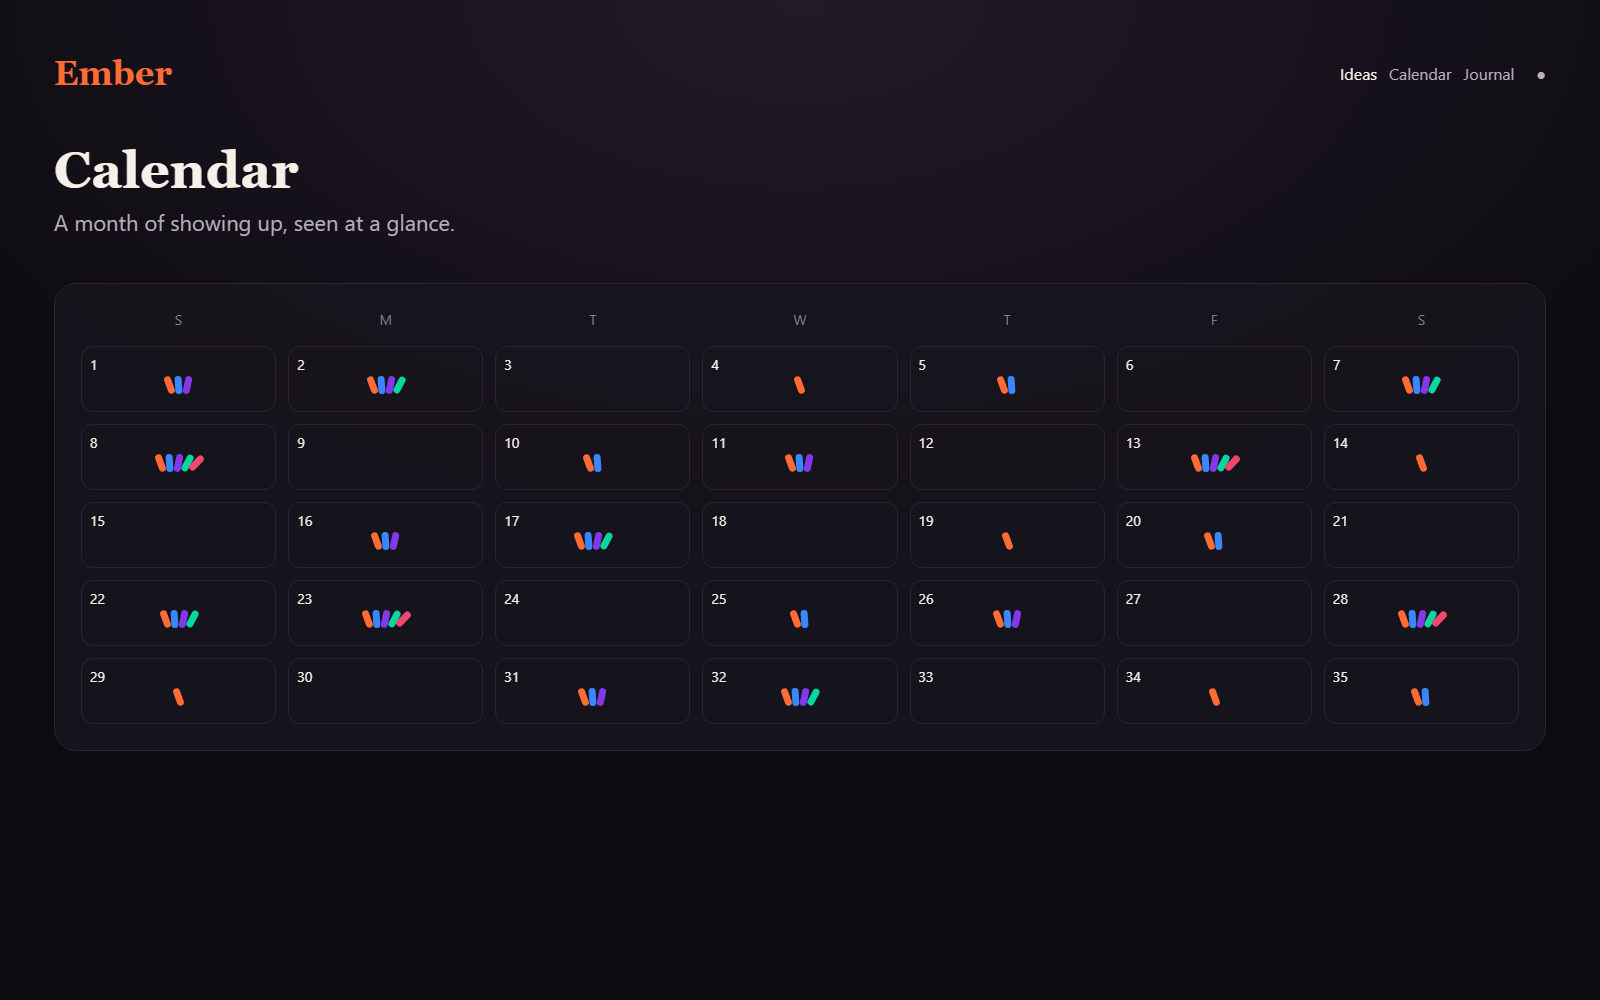
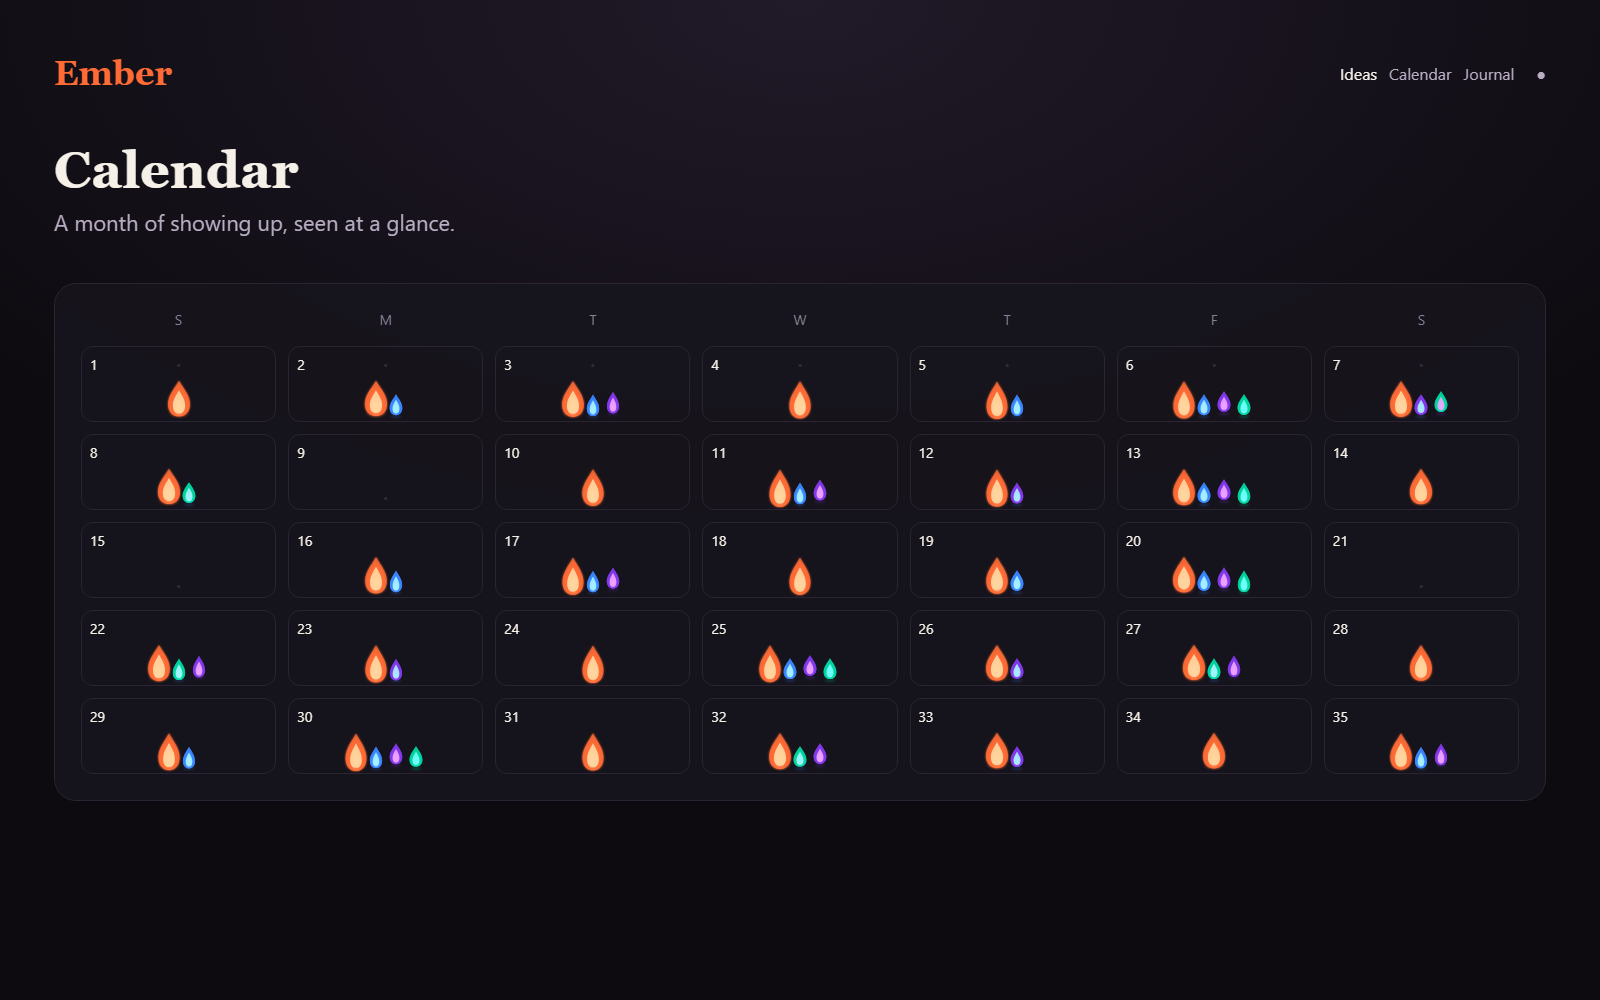
fix: fix images

diff --git a/remotion-demo/src/DevtoShowcase.tsx b/remotion-demo/src/DevtoShowcase.tsx
@@ -64,14 +64,35 @@ export const DevtoDashboard: React.FC = () => (
 
 export const DevtoCalendar: React.FC = () => {
   const colors = [COLORS.ember, COLORS.sapphire, COLORS.violet, COLORS.emerald, COLORS.crimson];
+  const marks = [1, 2, 3, 1, 2, 4, 3, 2, 0, 1, 3, 2, 4, 1, 0, 2, 3, 1, 2, 4, 0, 3, 2, 1, 4, 2, 3, 1, 2, 4, 1, 3, 2, 1, 3];
   return <Shell title="Calendar" subtitle="A month of showing up, seen at a glance.">
     <div style={{ marginTop: 24, padding: 26, borderRadius: 22, border: "1px solid #2a2433", background: "rgba(23,20,28,.88)" }}>
       <div style={{ display: "grid", gridTemplateColumns: "repeat(7, 1fr)", gap: 12 }}>
-        {["S", "M", "T", "W", "T", "F", "S", ...Array.from({ length: 35 }, (_, i) => i + 1)].map((value, i) => <div key={i} style={{ height: i < 7 ? 24 : 66, borderRadius: 12, border: i < 7 ? "none" : "1px solid #2a2433", color: i < 7 ? FAINT : TEXT, padding: i < 7 ? 0 : 8, fontSize: 14, textAlign: i < 7 ? "center" : "left" }}>{value}{i >= 7 && i % 3 !== 0 ? <div style={{ display: "flex", justifyContent: "center", marginTop: 2 }}><div style={{ display: "flex", gap: 2 }}>{colors.slice(0, (i % 5) + 1).map((c, j) => <span key={j} style={{ width: 7, height: 18, borderRadius: 8, background: c, transform: `rotate(${j * 16 - 20}deg)` }} />)}</div></div> : null}</div>)}
+        {["S", "M", "T", "W", "T", "F", "S", ...Array.from({ length: 35 }, (_, i) => i + 1)].map((value, i) => <div key={i} style={{ height: i < 7 ? 24 : 76, borderRadius: 12, border: i < 7 ? "none" : "1px solid #2a2433", color: i < 7 ? FAINT : TEXT, padding: i < 7 ? 0 : 8, fontSize: 14, textAlign: i < 7 ? "center" : "left" }}>{value}{i >= 7 && marks[i - 7] > 0 ? <div style={{ display: "flex", justifyContent: "center", alignItems: "end", height: 48, marginTop: -2 }}>{colors.slice(0, marks[i - 7]).map((c, j) => <div key={j} style={{ marginLeft: j === 0 ? 0 : -10, zIndex: j, transform: `translateY(${j % 2 ? 3 : 0}px)` }}><Flame stage={j === 0 ? "Flame" : "Spark"} baseColor={c} size={30} seed={i + j} /></div>)}</div> : <div style={{ display: "flex", justifyContent: "center", marginTop: 26, color: "#30293a" }}>•</div>}</div>)}
       </div>
     </div>
   </Shell>;
 };
+
+export const DevtoAiJournal: React.FC = () => (
+  <AbsoluteFill style={{ background: `radial-gradient(100% 90% at 50% 20%, #251a2b 0%, ${CANVAS} 70%)`, alignItems: "center", justifyContent: "center", color: TEXT, fontFamily: SANS }}>
+    <div style={{ width: 650, border: "1px solid #2a2433", background: "rgba(23,20,28,.96)", borderRadius: 24, padding: 30, boxShadow: "0 28px 80px rgba(0,0,0,.5)" }}>
+      <div style={{ fontFamily: SERIF, fontSize: 30, fontWeight: 700 }}>How was Running today?</div>
+      <div style={{ color: MUTED, fontSize: 17, marginTop: 6 }}>A tap is enough. Say more only if you feel like it.</div>
+      <div style={{ display: "flex", gap: 12, marginTop: 24 }}>
+        {[{ glyph: "🔥", label: "Energized" }, { glyph: "🙂", label: "Okay" }, { glyph: "🌧️", label: "Rough" }].map((m, i) => <div key={m.label} style={{ flex: 1, border: `1px solid ${i === 0 ? COLORS.ember : "#2a2433"}`, background: i === 0 ? "rgba(255,107,53,.08)" : "transparent", borderRadius: 14, textAlign: "center", padding: "14px 6px" }}><div style={{ fontSize: 30 }}>{m.glyph}</div><div style={{ color: MUTED, fontSize: 14, marginTop: 4 }}>{m.label}</div></div>)}
+      </div>
+      <div style={{ marginTop: 20, border: "1px solid rgba(255,107,53,.5)", background: "rgba(255,107,53,.07)", borderRadius: 15, padding: 18 }}>
+        <div style={{ color: COLORS.ember, fontSize: 14, fontWeight: 700, letterSpacing: 1 }}>✦ EMBER AI</div>
+        <div style={{ fontFamily: SERIF, fontSize: 25, marginTop: 12 }}>What pulled you to the run today?</div>
+        <div style={{ color: FAINT, fontSize: 15, marginTop: 8 }}>Optional — answer only if you feel like it.</div>
+        <div style={{ marginTop: 14, border: "1px solid #2a2433", borderRadius: 10, padding: 13, color: FAINT }}>I wanted to clear my head before the day started…</div>
+      </div>
+      <div style={{ marginTop: 18, border: "1px solid #2a2433", borderRadius: 12, padding: 15, color: FAINT }}>Anything you want to remember about today…</div>
+      <div style={{ textAlign: "right", marginTop: 18, color: COLORS.ember, fontWeight: 600 }}>Log it →</div>
+    </div>
+  </AbsoluteFill>
+);
 
 export const DevtoJournal: React.FC = () => (
   <Shell title="Journal" subtitle="Everything you&apos;ve tended, looking back.">
@@ -87,4 +108,5 @@ export const DevtoShowcaseCompositions: React.FC = () => <>
   <Composition id="DevtoDashboard" component={DevtoDashboard} durationInFrames={1} fps={30} width={1600} height={1000} />
   <Composition id="DevtoCalendar" component={DevtoCalendar} durationInFrames={1} fps={30} width={1600} height={1000} />
   <Composition id="DevtoJournal" component={DevtoJournal} durationInFrames={1} fps={30} width={1600} height={1000} />
+  <Composition id="DevtoAiJournal" component={DevtoAiJournal} durationInFrames={1} fps={30} width={1600} height={1000} />
 </>;

diff --git a/components/flame/Flame.tsx b/components/flame/Flame.tsx
@@ -68,8 +68,8 @@ export function Flame({
     if (isPhoenix(stage)) return [{ dx: 0, s: 1, phase: 0 }];
     if (v.tongues === 3)
       return [
-        { dx: -27, s: 0.52, phase: 0.25 },
-        { dx: 27, s: 0.52, phase: 0.5 },
+        { dx: -22, s: 0.40, phase: 0.25 },
+        { dx: 22, s: 0.40, phase: 0.5 },
         { dx: 0, s: 1, phase: 0 },
       ];
     return [{ dx: 0, s: 1, phase: 0 }];

diff --git a/remotion-demo/src/Flame.tsx b/remotion-demo/src/Flame.tsx
@@ -56,8 +56,8 @@ export const Flame: React.FC<FlameProps> = ({
   const tongues =
     stage === "Beacon"
       ? [
-          { dx: -27, s: 0.52 },
-          { dx: 27, s: 0.52 },
+          { dx: -22, s: 0.40 },
+          { dx: 22, s: 0.40 },
           { dx: 0, s: 1 },
         ]
       : [{ dx: 0, s: 1 }];

diff --git a/dev.to/blog.md b/dev.to/blog.md
@@ -1,20 +1,89 @@
 *This is a submission for the [Weekend Challenge: Passion Edition](https://dev.to/challenges/weekend-2026-07-09)*
 
-# Ember — tend the things you&apos;re building, and watch them burn 🔥
+# Ember: tend the things you're building, and watch them burn
 
-![Ember cover — a phoenix flame on a dark canvas](https://raw.githubusercontent.com/bv-saketha-rama/ember/main/dev.to/assets/cover.png)
+![Ember cover - a phoenix flame on a dark canvas](https://raw.githubusercontent.com/bv-saketha-rama/ember/main/dev.to/assets/cover.png)
 
 ## What I Built
 
-**[Ember](https://github.com/bv-saketha-rama/ember)** is a passion tracker built around one idea: showing up should feel encouraging, even when life gets messy.
+**[Ember](https://github.com/bv-saketha-rama/ember)** is a passion tracker for the things people want to keep alive: writing, running, music, learning, or a side project.
 
-Habit trackers often make a missed day feel like failure. Ember treats a passion more like a fire. Every project, practice, or habit gets its own flame, color, and origin story. Tend it and it grows from **Spark** to **Flame**, **Blaze**, **Beacon**, and finally **Phoenix**.
+The idea came from a frustration with traditional habit trackers. A missed day can turn a useful tool into a guilt machine: the streak breaks, the counter goes back to zero, and the work that came before it feels invisible.
+
+Ember uses a different metaphor. Every passion becomes a living flame. You give it a name, a color, and a reason for existing. When you show up, it grows through five stages:
 
 ![The five Ember flame stages](https://raw.githubusercontent.com/bv-saketha-rama/ember/main/docs/flames/stages.svg)
 
-The important twist is what happens when you miss a day. Ember measures consistency across the last 25 days instead of storing a brittle streak. A short gap dims the flame into a warm ember; a longer absence visually steps it back one stage. Log again and it returns immediately. No guilt, no reset — just a reason to come back.
+**Spark -> Flame -> Blaze -> Beacon -> Phoenix**
+
+The goal is not to be perfect. The goal is to make returning feel worthwhile.
+
+## The core features
+
+### 1. Flames that visibly grow
+
+Every flame is driven by distinct days tended, not by raw clicks or a fragile streak counter:
+
+- Flame at 7 distinct days
+- Blaze at 20 days
+- Beacon at 50 days
+- Phoenix at 100 days
+
+Each stage has its own visual language: scale, glow, flicker, extra tongues, ember particles, and eventually a phoenix silhouette.
 
 ![Flames growing from Spark to Phoenix](https://raw.githubusercontent.com/bv-saketha-rama/ember/main/dev.to/assets/flame-growth.png)
+
+### 2. Consistency instead of streaks
+
+Ember measures how many distinct days were tended in the trailing 25-day window. That means one missed day does not erase the previous month of effort.
+
+The flame also has a live life state:
+
+- **Burning:** recently tended and fully bright.
+- **Grace:** a short absence dims the flame but keeps its stage.
+- **Decayed:** a longer absence lowers the visual stage temporarily.
+
+The underlying progress is never destructively reset. The moment you log again, the flame comes back.
+
+### 3. A calendar that shows a full life
+
+The calendar makes consistency visible without turning it into a leaderboard. A day can show one flame, or several flames braided together when multiple passions were tended on the same date.
+
+![A calendar with real flame silhouettes and braided activity](https://raw.githubusercontent.com/bv-saketha-rama/ember/main/dev.to/assets/calendar-braided.png)
+
+### 4. A journal that remembers the work
+
+Logging a day can be as quick as choosing a mood. If you want to say more, Ember also stores an optional reflection and any AI check-in answer.
+
+The journal then becomes a quiet record of what actually happened: the small wins, the rough days, the milestones, and the reasons you kept going.
+
+![Journal entries from several passions](https://raw.githubusercontent.com/bv-saketha-rama/ember/main/dev.to/assets/journal-checkins.png)
+
+## How the AI is useful
+
+The AI is not a generic chatbot bolted onto the side of the app. It has two focused jobs: help a new flame discover its reason, and make daily reflection easier.
+
+### AI onboarding: turning setup into a conversation
+
+When a user creates a flame, Ember asks three questions about its origin story. Gemini rewrites each question using:
+
+- The name of the flame.
+- The user's previous answers.
+- A specific conversational intent for that step: why they started, what the passion could mean in their life, and what “good enough” success would feel like.
+
+That makes the setup feel less like filling out metadata and more like explaining something meaningful to a supportive friend.
+
+### AI check-ins: a gentle prompt for today
+
+When logging a day, the user can ask Ember for a personal check-in. Gemini receives the flame's name, current stage, number of tended days, and original answers. It then asks one short question that connects today's effort back to the reason the flame was lit.
+
+![Ember AI asks a gentle journaling check-in](https://raw.githubusercontent.com/bv-saketha-rama/ember/main/dev.to/assets/ai-journal-checkin.png)
+
+The AI prompt is deliberately optional. A mood tap is always enough, and the journal field is always available without answering the AI question. The feature adds reflection when it is useful; it never becomes another obligation.
+
+### Responsible integration
+
+Gemini runs through a server-side Convex action. The API key is stored as a Convex environment variable and never reaches the browser. If the key is missing or the request fails, Ember falls back to concise handwritten questions, so the core experience still works.
 
 ## Demo
 
@@ -22,54 +91,38 @@ The important twist is what happens when you miss a day. Ember measures consiste
 
 {% embed https://github.com/bv-saketha-rama/ember %}
 
-The core flow is deliberately small:
+The main flow is:
 
-1. Name a passion and choose its color.
-2. Answer three short, Gemini-phrased questions about why it matters.
-3. Log a mood and an optional reflection whenever you show up.
-4. Watch the flame grow, review the calendar, and revisit the journal.
+1. Sign in and create a flame.
+2. Choose its color and answer three questions about its story.
+3. Log a mood, optional AI answer, and optional journal entry.
+4. Watch the flame grow and celebrate stage milestones.
+5. Review the calendar and journal whenever you want to look back.
 
 ![A well-tended Ember dashboard](https://raw.githubusercontent.com/bv-saketha-rama/ember/main/dev.to/assets/dashboard-used.png)
-
-![A calendar with braided flame-days](https://raw.githubusercontent.com/bv-saketha-rama/ember/main/dev.to/assets/calendar-braided.png)
-
-![Journal entries with optional AI check-ins](https://raw.githubusercontent.com/bv-saketha-rama/ember/main/dev.to/assets/journal-checkins.png)
-
-## Code
-
-The project is open source: [github.com/bv-saketha-rama/ember](https://github.com/bv-saketha-rama/ember).
-
-- [`convex/stages.ts`](https://github.com/bv-saketha-rama/ember/blob/main/convex/stages.ts) contains the pure stage, consistency, grace, and decay mechanics.
-- [`convex/ai.ts`](https://github.com/bv-saketha-rama/ember/blob/main/convex/ai.ts) keeps Gemini calls server-side.
-- [`components/flame/Flame.tsx`](https://github.com/bv-saketha-rama/ember/blob/main/components/flame/Flame.tsx) renders the stage-aware animated SVG flame.
-- [`components/flame/BraidedFlame.tsx`](https://github.com/bv-saketha-rama/ember/blob/main/components/flame/BraidedFlame.tsx) visualizes several passions tended on one day.
 
 ## How I Built It
 
 **Stack:** Next.js 16, React 19, Convex, Clerk, Google Gemini 2.5 Flash, Tailwind CSS v4, Motion, Vitest, and Remotion.
 
-### The mechanics came first
+### Mechanics first
 
-All flame behavior lives in a dependency-free module. Distinct logged days determine the stage; a rolling 25-day window determines consistency; the gap since the last log determines whether a flame is burning, in grace, or decayed. These values are computed live, so the database never needs a destructive “reset streak” mutation. The mechanics are covered by 18 Vitest tests.
+The flame behavior lives in a small pure module, [`convex/stages.ts`](https://github.com/bv-saketha-rama/ember/blob/main/convex/stages.ts). It calculates stage thresholds, the rolling consistency score, grace, decay, and the effective visual stage. Because those rules are pure, they are covered by 18 unit tests and can be reasoned about independently from the UI.
 
 ### The flame is the interface
 
-Each stage has its own scale, glow, flicker, tongues, and particle behavior. A single Motion-powered SVG component renders those visual states. Beacon grows multiple tongues, Phoenix becomes a golden bird, and grace/decay lower the glow without erasing the underlying work.
+[`components/flame/Flame.tsx`](https://github.com/bv-saketha-rama/ember/blob/main/components/flame/Flame.tsx) is a stage-aware animated SVG component driven by Motion. Beacon uses a dominant central flame with narrower side tongues, while Phoenix switches to a firebird silhouette. [`BraidedFlame.tsx`](https://github.com/bv-saketha-rama/ember/blob/main/components/flame/BraidedFlame.tsx) keeps multiple colors visually separate when several passions share a day.
 
-### Gemini makes setup feel human
+### Reactive backend and private AI
 
-Creating a flame is a short conversation rather than a form. A Convex server-side action asks Gemini for one warm question at a time, using the flame name and previous answers as context. The daily check-in uses the same pattern. The API key stays in Convex, never in the browser, and handwritten fallback questions keep the flow usable when Gemini is unavailable.
-
-### Several passions can share a day
-
-The calendar uses braided colors when multiple flames are logged on the same date. That makes a full day visible without turning the experience into a leaderboard or streak counter.
+Convex provides reactive queries and mutations for flames and logs. Clerk scopes the data to the signed-in user. Gemini is called only from [`convex/ai.ts`](https://github.com/bv-saketha-rama/ember/blob/main/convex/ai.ts), which keeps the secret off the client and gives the UI a predictable fallback path.
 
 ## Prize Categories
 
 ### Best Use of Google AI
 
-Gemini powers Ember&apos;s onboarding conversation and optional daily check-ins. It is integrated through Convex actions, with server-side secrets and graceful fallbacks. The AI does not replace the product&apos;s mechanics; it gives the mechanics a warmer voice and helps each flame remember why it exists.
+Ember uses Google Gemini 2.5 Flash in a focused, human-centered way. It turns flame creation into a contextual three-question conversation and offers optional daily prompts that remember the user's original motivation. The AI adds warmth and continuity while leaving the user in control of what they share.
 
 ## Try it
 
-If you have something you&apos;re trying to keep alive — writing, running, music, a side project — [light a flame](https://ember-two-sigma.vercel.app) and see what happens when progress is allowed to be forgiving.
+If you have something you're trying to keep alive - a project, practice, or personal goal - [light a flame](https://ember-two-sigma.vercel.app) and see what progress feels like when it is allowed to be forgiving.

diff --git a/README.md b/README.md
@@ -2,7 +2,7 @@
 
 # 🔥 Ember
 
-### Tend the things you&apos;re building. Watch them burn.
+### Tend the things you're building. Watch them burn.
 
 Ember is a gentle passion tracker where every project, practice, or habit becomes a living flame. Show up and it grows from Spark to Phoenix. Miss a few days and it dims, but it never shames you or resets your progress.
 
@@ -25,8 +25,8 @@ Ember measures consistency over a rolling 25-day window. Each passion has its ow
 - **Living flames:** five visible stages, from Spark to Phoenix.
 - **Consistency over streaks:** progress is based on distinct days tended in the last 25 days.
 - **Graceful decay:** a short gap dims a flame; returning revives it immediately.
-- **AI onboarding:** Gemini turns setup into three warm questions about the passion&apos;s “why.”
-- **AI check-ins:** optional daily prompts remember the flame&apos;s stage and origin story.
+- **AI onboarding:** Gemini turns setup into three warm questions about the passion's “why.”
+- **AI check-ins:** optional daily prompts remember the flame's stage and origin story.
 - **Braided calendar:** multiple flames logged on one day twist together in a shared visual mark.
 - **Journal:** reflections, moods, AI answers, and milestones stay searchable.
 - **Private by design:** the Gemini key is used only in a server-side Convex action.
@@ -50,6 +50,8 @@ The stage engine is a small pure module in [`convex/stages.ts`](convex/stages.ts
 ![A well-tended Ember dashboard](https://raw.githubusercontent.com/bv-saketha-rama/ember/main/dev.to/assets/dashboard-used.png)
 
 ![A calendar with braided flame-days](https://raw.githubusercontent.com/bv-saketha-rama/ember/main/dev.to/assets/calendar-braided.png)
+
+![An Ember AI journaling check-in](https://raw.githubusercontent.com/bv-saketha-rama/ember/main/dev.to/assets/ai-journal-checkin.png)
 
 ## Stack
 

diff --git a/BLOG.md b/BLOG.md
@@ -1,4 +1,4 @@
-# Ember — tend the things you&apos;re building, and watch them burn 🔥
+# Ember — tend the things you're building, and watch them burn 🔥
 
 > This is a submission for the [Weekend Challenge: Passion Edition](https://dev.to/challenges/weekend-2026-07-09).
 